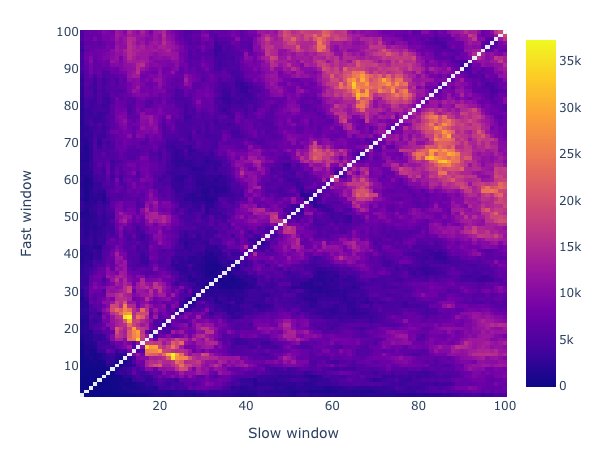
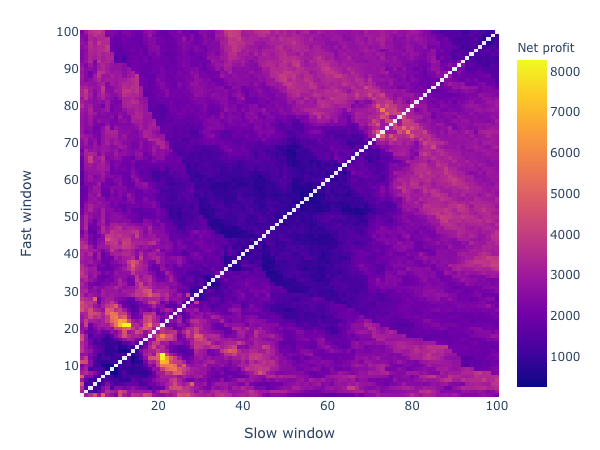
Update README

diff --git a/README.md b/README.md
@@ -12,7 +12,7 @@ While there are [many other great backtesting packages for Python](https://githu
 
 Take a simple [Dual Moving Average Crossover](https://en.wikipedia.org/wiki/Moving_average_crossover) strategy for example. By calculating the performance of each reasonable window combination and plotting the whole thing as a heatmap (as we do below), you can easily identify how performance depends on window size. If you additionally calculate the same heatmap over multiple time periods, you will spot how performance varies with downtrends and uptrends. By doing the same for other strategies such as holding and trading randomly, you can compare them using significance tests. With vectorbt, this analysis can be done in minutes, and will effectively save you hours of getting the same insights using other libraries.
 
-Here a snippet for testing 4851 window combinations of a dual SMA crossover strategy on the whole Microsoft stock history in about 10 seconds:
+Here a snippet for testing 4851 window combinations of a dual SMA crossover strategy on the whole Bitcoin history in about 3 seconds:
 
 ```python
 import vectorbt as vbt
@@ -25,9 +25,9 @@ investment = 100 # in $
 commission = 0.001 # in %
 
 # Prepare data
-msft = yf.Ticker("MSFT")
+msft = yf.Ticker("BTC-USD")
 df = msft.history(period="max")
-price = df['Open']
+price = df['Close']
 
 # Calculate the performance of the strategy
 dmac = vbt.DMAC.from_combinations(price, windows)
@@ -37,7 +37,11 @@ performance = portfolio.total_net_profit
 
 # Plot heatmap
 tnp_df = performance.vbt.unstack_to_df(symmetric=True)
-tnp_df.vbt.Heatmap(xaxis_title='Slow window', yaxis_title='Fast window', width=600, height=450).show_png()
+tnp_df.vbt.Heatmap(
+    xaxis_title='Slow window', 
+    yaxis_title='Fast window', 
+    trace_kwargs=dict(colorbar=dict(title='Net profit')),
+    width=600, height=450).show_png()
 ```
 
 ![dmac_heatmap.png](dmac_heatmap.png)
